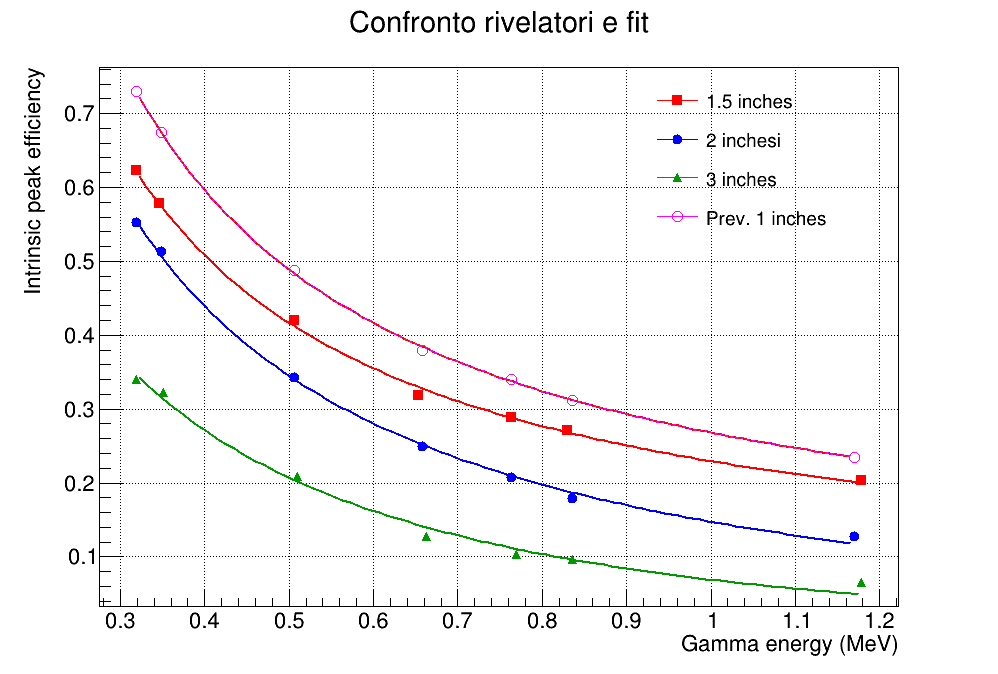
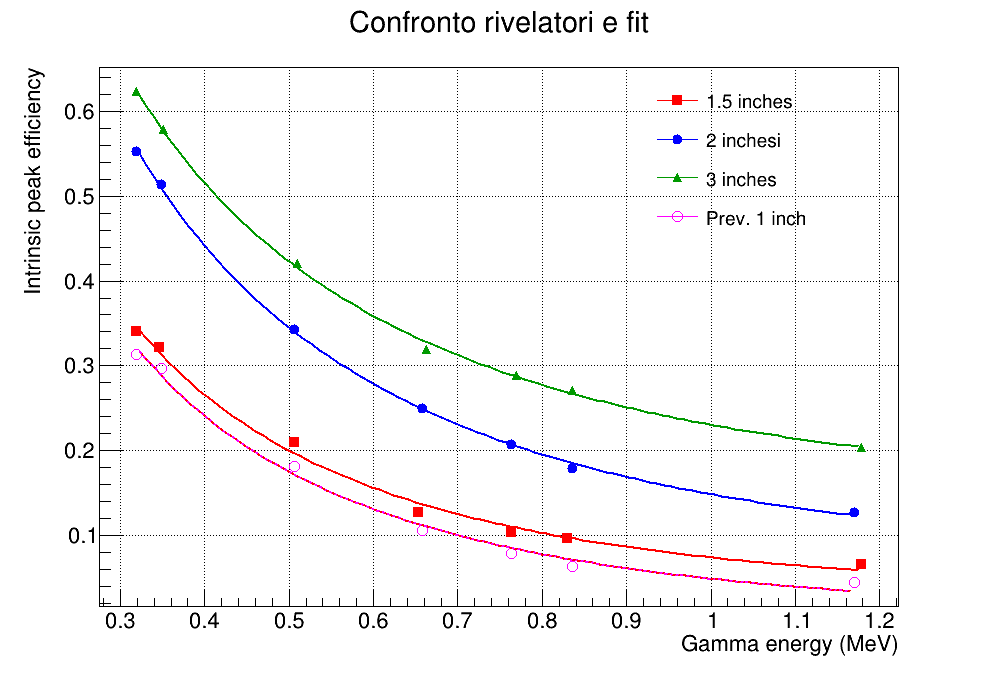
sistemate efficienze

diff --git a/Efficienza 2X2/graph.py b/Efficienza 2X2/graph.py
@@ -20,6 +20,7 @@ x_2pollici = [
     0.8357095062407706,
     1.1700423339274262
 ]
+
 y_2pollici = [
     0.5530232692950782,
     0.513935011339386,
@@ -40,7 +41,7 @@ x_3pollici = [
     0.8357095062407706,
     1.1788248152624714,
 ]
-y_3pollici = [
+y_1_5pollici = [
     0.3402790414078734,
     0.32207632355222093,
     0.20937604699537318,
@@ -61,7 +62,7 @@ x_1_5pollici = [
     0.8294833027836905,
     1.1788248152624714
 ]
-y_1_5pollici = [
+y_3pollici = [
     0.6229821545978553,
     0.5789491301073059,
     0.42010843619294497,
@@ -96,9 +97,9 @@ def fit_dataset(xvals, yvals, color, marker_style, legend_label):
     
     # Range degli x per la funzione di fit
     xmin, xmax = min(xvals), max(xvals)
-    fit_func = ROOT.TF1("fit_"+legend_label, "[0]*pow(x, -[1])*exp(-[2]*x)", xmin, xmax)
+    fit_func = ROOT.TF1("fit_"+legend_label, "[0]*pow(x, -[1])*exp(-[2]*x)+[3]", xmin, xmax)
     # Parametri iniziali (non troppo grandi)
-    fit_func.SetParameters(1, 1, 1)
+    fit_func.SetParameters(1, 1, 1, 1)
     # Esegui il fit
     graph.Fit(fit_func, "QRS")  # Q=quiet, R=range, S=store
     
@@ -142,28 +143,44 @@ graph_3, fit_3, A3, B3, C3 = fit_dataset(
 # Facciamo un fit lineare di A(d), B(d), C(d) in funzione di d (d=1.5,2,3)
 # e valutiamo a d=1 pollice.
 
-def interpolate_parameter(d, Y):
+def interpolate_parameter(d, Y,i):
+    # Esegue un fit esponenziale param(d) = p3 + p0 * exp(p1 * d - p2)
+    # Restituisce param(1) e salva il plot del fit
     
-    #Esegue un fit lineare param(d) = p0 + p1*d su 3 punti
-    #Restituisce param(1).
-    
-    gd = ROOT.TGraph(3)
+    g = ROOT.TGraph(3)
     for i in range(3):
-        gd.SetPoint(i, d[i], Y[i])
-    # Fit lineare
-    f_lin = ROOT.TF1("f_lin","[0] + [1]*x", 0, 5)
-    gd.Fit(f_lin, "Q")  # Q=quiet
-    p0 = f_lin.GetParameter(0)
-    p1 = f_lin.GetParameter(1)
-    return p0 + p1*1.0  # valore a d=1 pollice
-
+        g.SetPoint(i, d[i], Y[i])
+    
+    # Fit esponenziale
+    f_exp = ROOT.TF1("f_exp", "[3] + [0]*exp([1]*x - [2])", 0, 5)
+    g.Fit(f_exp, "Q")  # Q=quiet
+    
+    # Otteniamo i parametri del fit
+    p0 = f_exp.GetParameter(0)
+    p1 = f_exp.GetParameter(1)
+    p2 = f_exp.GetParameter(2)
+    p3 = f_exp.GetParameter(3)
+    
+    # Creazione del canvas per il plot
+    c_fit = ROOT.TCanvas("c_fit", "Fit Parameter", 800, 600)
+    g.SetTitle("Fit dei parametri in funzione della dimensione; Dimensione (pollici); Valore del parametro")
+    g.SetMarkerStyle(20)
+    g.SetMarkerColor(ROOT.kBlue)
+    g.Draw("AP")  # A = draw axis, P = draw points
+    f_exp.SetLineColor(ROOT.kRed)
+    f_exp.Draw("same")
+    
+    # Salvataggio del grafico
+    c_fit.SaveAs("fit_parameter"+ str(i)+".png")
+    
+    return p3 + p0 * np.exp(p1 * 1 - p2)  # valore a d=1 pollice
 diams = [1.5, 2.0, 3.0]  # dimensioni in pollici
 
 y_1=[]
 
 
 for i in range(7):
-    y_1.append(interpolate_parameter(diams, [y_1_5pollici[i], y_2pollici[i], y_3pollici[i]]))
+    y_1.append(interpolate_parameter(diams, [y_1_5pollici[i], y_2pollici[i], y_3pollici[i]],i))
 
 graph_1, fit_1, A1, B1, C1 = fit_dataset(
     x_2pollici, y_1,
@@ -177,6 +194,8 @@ graph_1, fit_1, A1, B1, C1 = fit_dataset(
 # --------------------------------------------------------------------
 c = ROOT.TCanvas("c", "Efficienza vs Energia", 1000, 700)
 c.SetGrid()
+#c.SetLogx()
+#c.SetLogy()
 
 # Per disegnare più TGraph in un unico asse, usiamo un TMultiGraph
 mg = ROOT.TMultiGraph()
@@ -188,6 +207,7 @@ mg.Add(graph_1,"P")
 
 # Disegniamo il MultiGraph
 mg.SetTitle("Confronto rivelatori e fit; Gamma energy (MeV); Intrinsic peak efficiency")
+#mg.GetXaxis().SetLimits(0, 3)  # Imposta il range dell'asse X
 mg.Draw("A")
 
 # Ora disegniamo le curve di fit di ciascuno con "same"
@@ -212,7 +232,7 @@ legend.SetFillStyle(0)
 legend.AddEntry(graph_1_5,f"1.5 inches ", "lp")
 legend.AddEntry(graph_2,  f"2 inchesi", "lp")
 legend.AddEntry(graph_3,  f"3 inches", "lp")
-legend.AddEntry(graph_1, f"Prev. 1 inches", "lp")
+legend.AddEntry(graph_1, f"Prev. 1 inch", "lp")
 
 legend.SetTextSize(0.03)
 legend.Draw()
@@ -221,16 +241,16 @@ c.Update()
 c.SaveAs("Efficienze.png")
 
 
-#------------------------ STAMPA VALORI A SCHERMO --------
+#-------------- STAMPA VALORI A SCHERMO --------
 
 print("\nPrevisioni efficienza per 1'' usando il fit:")
 print(f"x = 0.511 MeV → efficienza = {fit_1.Eval(0.511):.5f} \n")
 
 print("Previsioni efficienza per 2'' usando il fit:")
-print(f"x = 0.511 MeV → efficienza = {fit_1.Eval(0.511):.5f} ")
-print(f"x = 1.274 MeV → efficienza = {fit_1.Eval(1.274):.5f} ")
-print(f"x = 1.173 MeV → efficienza = {fit_1.Eval(1.173):.5f} ")
-print(f"x = 1.332 MeV → efficienza = {fit_1.Eval(1.332):.5f} \n")
+print(f"x = 0.511 MeV → efficienza = {fit_2.Eval(0.511):.5f} ")
+print(f"x = 1.173 MeV → efficienza = {fit_2.Eval(1.173):.5f} ")
+print(f"x = 1.274 MeV → efficienza = {fit_2.Eval(1.274):.5f} ")
+print(f"x = 1.332 MeV → efficienza = {fit_2.Eval(1.332):.5f} \n")
 
 ang_test = [15, 35, 50, 75, 90, 110]  # Angoli in gradi
 ang = [ang * 0.01745 for ang in ang_test]  # Conversione in radianti
